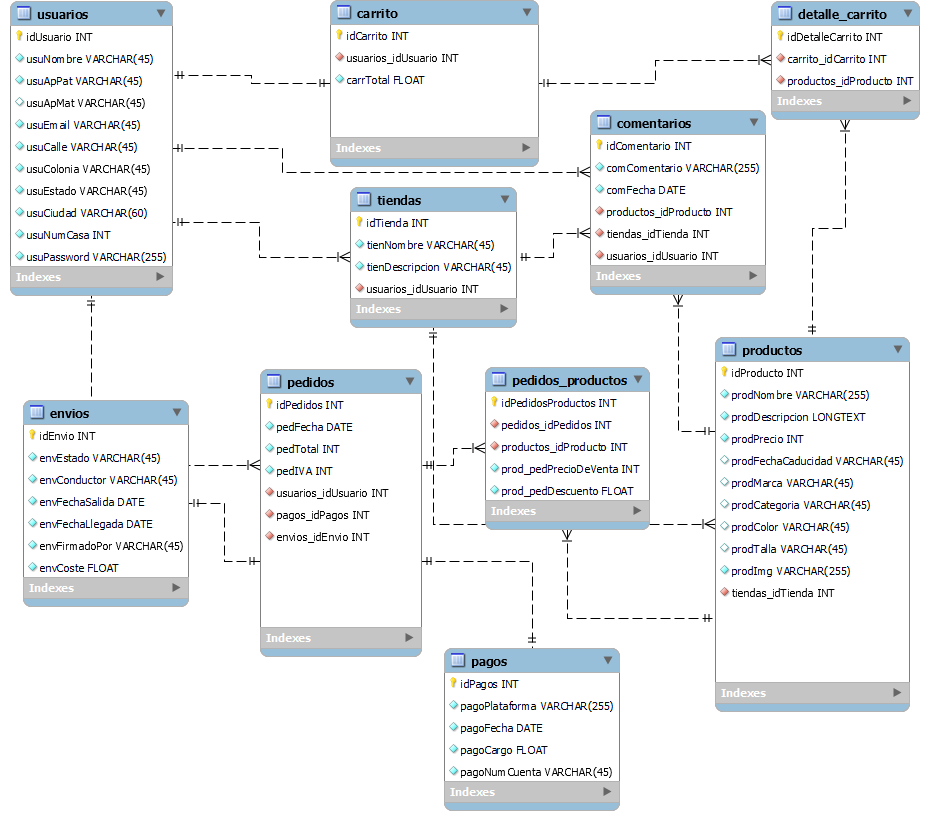
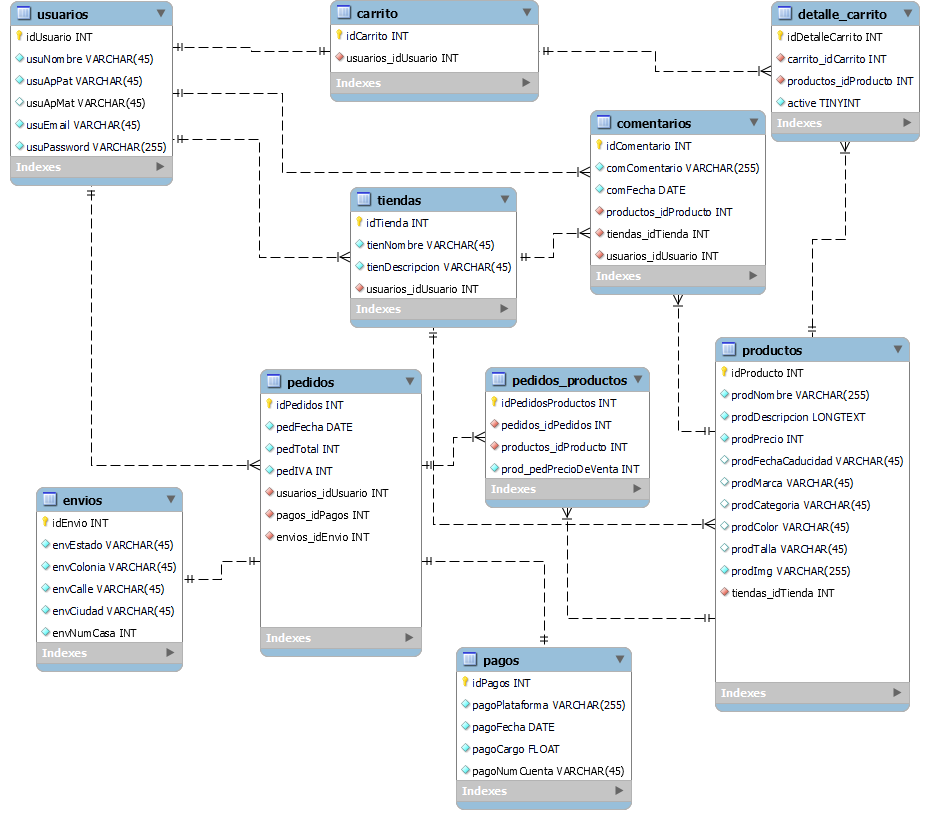
Creacion de logica de pedido y carrito
Se realizaron ajustes al modelo

diff --git a/Actividades/Actividad04/tienda/src/main/java/com/braulio/tienda/service/CarritoService.java b/Actividades/Actividad04/tienda/src/main/java/com/braulio/tienda/service/CarritoService.java
@@ -8,10 +8,10 @@ import org.springframework.stereotype.Service;
 
 import com.braulio.tienda.data.Carrito;
 import com.braulio.tienda.data.DetalleCarrito;
-import com.braulio.tienda.data.Producto;
 import com.braulio.tienda.data.Usuario;
 import com.braulio.tienda.data.dto.CarritoDto;
 import com.braulio.tienda.data.dto.DetalleCarritoDto;
+import com.braulio.tienda.data.dto.ProductoDto;
 import com.braulio.tienda.repository.CarritoRepository;
 import com.braulio.tienda.repository.DetalleCarritoRepository;
 import com.braulio.tienda.repository.ProductoRepository;
@@ -29,7 +29,7 @@ public class CarritoService {
     @Autowired
     private ProductoRepository productoRepository;
 
-    public DetalleCarritoDto obtenerCarrito(Integer idUsuario){
+    public List<ProductoDto> obtenerCarrito(Integer idUsuario){
 
         Usuario usuario = usuarioRepository.getReferenceById(idUsuario);
         Carrito carrito = (carritoRepository.findByUsuario(usuario)).get(0);
@@ -37,15 +37,25 @@ public class CarritoService {
         List<DetalleCarrito> productos = detalleCarritoRepository.findByCarritoAndActive(carrito,true);
         DetalleCarritoDto detalleCarritoDto = new DetalleCarritoDto();
         detalleCarritoDto.setCarrito(carrito);
-        List<Producto> listaProductos = new ArrayList<>();
+        List<ProductoDto> listaProductos = new ArrayList<>();
         for (DetalleCarrito objetoDetalleCarrito : productos) {
-            listaProductos.add(objetoDetalleCarrito.getProducto());
+            ProductoDto productoDto = new ProductoDto();
+            productoDto.setIdProducto(objetoDetalleCarrito.getProducto().getIdProducto());
+            productoDto.setCategoria(objetoDetalleCarrito.getProducto().getCategoria());
+            productoDto.setColor(objetoDetalleCarrito.getProducto().getColor());
+            productoDto.setDescripcion(objetoDetalleCarrito.getProducto().getDescripcion());
+            productoDto.setFechaCaducidad(objetoDetalleCarrito.getProducto().getFechaCaducidad());
+            productoDto.setImg(objetoDetalleCarrito.getProducto().getImg());
+            productoDto.setMarca(objetoDetalleCarrito.getProducto().getMarca());
+            productoDto.setNombre(objetoDetalleCarrito.getProducto().getNombre());
+            productoDto.setPrecio(objetoDetalleCarrito.getProducto().getPrecio());
+            productoDto.setTalla(objetoDetalleCarrito.getProducto().getTalla());
+            listaProductos.add(productoDto);
         }
-        detalleCarritoDto.setProductos(listaProductos);
-        return  detalleCarritoDto;
+        return listaProductos;
     }
 
-    public DetalleCarritoDto agregarProductoACarrito(CarritoDto carritoDto){
+    public List<ProductoDto> agregarProductoACarrito(CarritoDto carritoDto){
         Usuario usuario = usuarioRepository.getReferenceById(carritoDto.getUsuario());
         List<Carrito> userCarrito = carritoRepository.findByUsuario(usuario);
         if (userCarrito.size() > 0) {
@@ -55,22 +65,25 @@ public class CarritoService {
             newDetalleCarrito.setProducto(productoRepository.getReferenceById(carritoDto.getProducto()));    
             newDetalleCarrito.setActive(true);
             detalleCarritoRepository.save(newDetalleCarrito);
+            return obtenerCarrito(usuario.getIdUsuario());
         }else{
-
+            
             // Crear carrito
             Carrito newCarrito = new Carrito();
             newCarrito.setUsuario(usuario);
             carritoRepository.save(newCarrito);
-
-            // Crear DetallesCarrito
-            DetalleCarrito newDetalleCarrito = new DetalleCarrito();
-            newDetalleCarrito.setCarrito(newCarrito);
-            newDetalleCarrito.setProducto(productoRepository.getReferenceById(carritoDto.getProducto()));
-            detalleCarritoRepository.save(newDetalleCarrito);
-
             
-        };
-        return obtenerCarrito(usuario.getIdUsuario());
+            // Crear DetallesCarrito
+            DetalleCarrito detalleCarrito = new DetalleCarrito();
+            detalleCarrito.setCarrito(newCarrito);
+            detalleCarrito.setProducto(productoRepository.getReferenceById(carritoDto.getProducto()));
+            detalleCarrito.setActive(true);
+            detalleCarritoRepository.save(detalleCarrito);
+
+            return obtenerCarrito(usuario.getIdUsuario());
+            
+        }
+
     }
 
 }

diff --git a/Actividades/Actividad04/tienda/src/main/java/com/braulio/tienda/service/PedidoService.java b/Actividades/Actividad04/tienda/src/main/java/com/braulio/tienda/service/PedidoService.java
@@ -1,5 +1,6 @@
 package com.braulio.tienda.service;
 
+import java.util.ArrayList;
 import java.util.Date;
 import java.util.List;
 
@@ -42,7 +43,7 @@ public class PedidoService {
     @Autowired
     private PedidosProductosRepository pedidosProductosRepository;
 
-    public Pago crearPago(PagoDto pagoDto){
+    public Integer crearPago(PagoDto pagoDto){
         Pago pago = new Pago();
 
         pago.setCargo(pagoDto.getCargo());
@@ -51,10 +52,10 @@ public class PedidoService {
         pago.setPlataforma(pagoDto.getPlataforma());
         pagoRepository.save(pago);
         
-        return pago;
+        return pago.getIdPagos();
     }
 
-    public Envio crearEnvio(EnvioDto envioDto){
+    public Integer crearEnvio(EnvioDto envioDto){
         Envio envio = new Envio();
         envio.setCalle(envioDto.getCalle());
         envio.setCiudad(envioDto.getCiudad());
@@ -62,7 +63,7 @@ public class PedidoService {
         envio.setEstado(envioDto.getEstado());
         envio.setNumCasa(envioDto.getNumCasa());
         envioRepository.save(envio);
-        return envio;
+        return envio.getIdEnvio();
     }
 
 
@@ -77,13 +78,19 @@ public class PedidoService {
             Integer total = 0;
             Carrito carrito = carritoRepository.findByUsuario(usuario).get(0);
             List<DetalleCarrito> productos = detalleCarritoRepository.findByCarritoAndActive(carrito,true);
+
             for (DetalleCarrito itemCarrito : productos) {
                 total += itemCarrito.getProducto().getPrecio();
             }
+
             newPedido.setIva(total*IVA);
             newPedido.setTotal(total+newPedido.getIva());
-            newPedido.setPago(crearPago(new PagoDto(pedidoDto.getPlataforma(), newPedido.getFecha(),newPedido.getTotal(), pedidoDto.getNumCuenta())));
-            newPedido.setEnvio(crearEnvio(new EnvioDto(pedidoDto.getCalle(), pedidoDto.getColonia(), pedidoDto.getEstado(), pedidoDto.getCiudad(), pedidoDto.getNumCasa())));
+            Integer idPago = crearPago(new PagoDto(pedidoDto.getPlataforma(), newPedido.getFecha(),newPedido.getTotal(), pedidoDto.getNumCuenta()));
+            Pago pago = pagoRepository.getReferenceById(idPago);
+            newPedido.setPago(pago);
+            Integer idEnvio = crearEnvio(new EnvioDto(pedidoDto.getCalle(), pedidoDto.getColonia(), pedidoDto.getEstado(), pedidoDto.getCiudad(), pedidoDto.getNumCasa()));
+            Envio envio = envioRepository.getReferenceById(idEnvio);
+            newPedido.setEnvio(envio);
             pedidoRepository.save(newPedido);
             
             for (DetalleCarrito itemCarrito : productos) {
@@ -95,9 +102,37 @@ public class PedidoService {
                 
             }
 
+            
+            pedidoDto.setTotal(newPedido.getTotal());
+            pedidoDto.setIva(newPedido.getIva());
+            pedidoDto.setFecha(newPedido.getFecha());
+            pedidoDto.setIdPedidos(newPedido.getIdPedidos());
         }
-    
-
         return pedidoDto;
+    }
+
+
+
+    public List<PedidoDto> obtenerPedidosPorUsuario(Integer idUsuario){
+        Usuario usuario = usuarioRepository.getReferenceById(idUsuario);
+        List<Pedido> pedidos = pedidoRepository.findByUsuario(usuario);
+        List<PedidoDto> pedidoDtos = new ArrayList<>();
+        for (Pedido pedido : pedidos) {
+            PedidoDto pedidoDto = new PedidoDto();
+            pedidoDto.setUsuario(pedido.getUsuario().getIdUsuario());
+            pedidoDto.setIdPedidos(pedido.getIdPedidos());
+            pedidoDto.setNumCuenta(pedido.getPago().getNumCuenta());
+            pedidoDto.setPlataforma(pedido.getPago().getPlataforma());
+            pedidoDto.setCalle(pedido.getEnvio().getCalle());
+            pedidoDto.setCiudad(pedido.getEnvio().getCiudad());
+            pedidoDto.setColonia(pedido.getEnvio().getColonia());
+            pedidoDto.setEstado(pedido.getEnvio().getEstado());
+            pedidoDto.setNumCasa(pedido.getEnvio().getNumCasa());
+            pedidoDto.setFecha(pedido.getFecha());
+            pedidoDto.setIva(pedido.getIva());
+            pedidoDto.setTotal(pedido.getTotal());
+            pedidoDtos.add(pedidoDto);
+        }
+        return pedidoDtos;
     }
 }

diff --git a/Actividades/Actividad04/tienda/src/main/java/com/braulio/tienda/controller/CarritoController.java b/Actividades/Actividad04/tienda/src/main/java/com/braulio/tienda/controller/CarritoController.java
@@ -1,27 +1,31 @@
 package com.braulio.tienda.controller;
 
+import java.util.List;
+
 import org.springframework.beans.factory.annotation.Autowired;
 import org.springframework.web.bind.annotation.GetMapping;
 import org.springframework.web.bind.annotation.PostMapping;
 import org.springframework.web.bind.annotation.RequestBody;
+import org.springframework.web.bind.annotation.RequestMapping;
 import org.springframework.web.bind.annotation.RestController;
 
 import com.braulio.tienda.data.dto.CarritoDto;
-import com.braulio.tienda.data.dto.DetalleCarritoDto;
+import com.braulio.tienda.data.dto.ProductoDto;
 import com.braulio.tienda.service.CarritoService;
 
 @RestController
+@RequestMapping("/carrito")
 public class CarritoController {
     @Autowired
     private CarritoService carritoService;
 
     @PostMapping("/addCarrito")
-    public DetalleCarritoDto addToCart(@RequestBody CarritoDto carritoDto){
+    public List<ProductoDto> addToCart(@RequestBody CarritoDto carritoDto){
         return carritoService.agregarProductoACarrito(carritoDto);
     }
 
     @GetMapping("/getCarrito")
-    public DetalleCarritoDto getCart(Integer idUsuario){
+    public List<ProductoDto> getCart(Integer idUsuario){
         return carritoService.obtenerCarrito(idUsuario);
     }
 }

diff --git a/Actividades/Actividad04/tienda/src/main/java/com/braulio/tienda/data/PedidosProductos.java b/Actividades/Actividad04/tienda/src/main/java/com/braulio/tienda/data/PedidosProductos.java
@@ -8,7 +8,6 @@ import jakarta.persistence.GenerationType;
 import jakarta.persistence.Id;
 import jakarta.persistence.JoinColumn;
 import jakarta.persistence.ManyToOne;
-import jakarta.persistence.MapsId;
 import jakarta.persistence.Table;
 import lombok.Getter;
 import lombok.Setter;
@@ -24,16 +23,14 @@ public class PedidosProductos {
     @Column(name = "idPedidosProductos")
     private Integer idPedidosProductos;
 
-    @MapsId("idPedidos")
     @ManyToOne(fetch = FetchType.LAZY, optional = false)
     @JoinColumn(name = "pedidos_idPedidos", nullable = false)
     private Pedido pedido;
 
-    @MapsId("idProducto")
     @ManyToOne(fetch = FetchType.LAZY, optional = false)
     @JoinColumn(name = "productos_idProducto", nullable = false)
     private Producto producto;
 
     @Column(name = "prod_pedPrecioDeVenta",nullable = false)
-    private Integer precioVenta;
+    private double precioVenta;
 }

diff --git a/Actividades/Actividad04/tienda/src/main/java/com/braulio/tienda/data/DetalleCarrito.java b/Actividades/Actividad04/tienda/src/main/java/com/braulio/tienda/data/DetalleCarrito.java
@@ -8,7 +8,6 @@ import jakarta.persistence.GenerationType;
 import jakarta.persistence.Id;
 import jakarta.persistence.JoinColumn;
 import jakarta.persistence.ManyToOne;
-import jakarta.persistence.MapsId;
 import jakarta.persistence.Table;
 import lombok.Getter;
 import lombok.Setter;
@@ -24,12 +23,12 @@ public class DetalleCarrito {
     @Column(name = "idDetalleCarrito")
     private Integer idDetalleCarrito;
 
-    @MapsId("idCarrito")
+    // @MapsId("idCarrito")
     @ManyToOne(fetch = FetchType.LAZY, optional = false)
     @JoinColumn(name = "carrito_idCarrito", nullable = false)
     private Carrito carrito;
     
-    @MapsId("idProducto")
+    // @MapsId("idProducto")
     @ManyToOne(fetch = FetchType.LAZY, optional = false)
     @JoinColumn(name = "productos_idProducto", nullable = false)
     private Producto producto;

diff --git a/Actividades/Actividad04/tienda/src/main/java/com/braulio/tienda/controller/PedidoController.java b/Actividades/Actividad04/tienda/src/main/java/com/braulio/tienda/controller/PedidoController.java
@@ -1,6 +1,9 @@
 package com.braulio.tienda.controller;
 
+import java.util.List;
+
 import org.springframework.beans.factory.annotation.Autowired;
+import org.springframework.web.bind.annotation.GetMapping;
 import org.springframework.web.bind.annotation.PostMapping;
 import org.springframework.web.bind.annotation.RequestBody;
 import org.springframework.web.bind.annotation.RequestMapping;
@@ -19,5 +22,10 @@ public class PedidoController {
     @PostMapping("/nuevoPedido")
     public PedidoDto nuevoPedido(@RequestBody PedidoDto dto){
         return pedidoService.nuevoPedido(dto);
+    }
+
+    @GetMapping("/getPedidos")
+    public List<PedidoDto> getPedidos(Integer idUsuario){
+        return pedidoService.obtenerPedidosPorUsuario(idUsuario);
     }
 }

diff --git a/Actividades/Actividad04/tienda/src/main/java/com/braulio/tienda/data/dto/DetalleCarritoDto.java b/Actividades/Actividad04/tienda/src/main/java/com/braulio/tienda/data/dto/DetalleCarritoDto.java
@@ -1,16 +1,23 @@
 package com.braulio.tienda.data.dto;
 
+import java.io.Serializable;
 import java.util.List;
 
 import com.braulio.tienda.data.Carrito;
 import com.braulio.tienda.data.Producto;
+import com.fasterxml.jackson.annotation.JsonIgnore;
 
 import lombok.Getter;
 import lombok.Setter;
 
 @Getter
 @Setter
-public class DetalleCarritoDto {
+public class DetalleCarritoDto implements Serializable{
     private Carrito carrito;
+    @JsonIgnore 
     private List<Producto> productos;
+    
+    public DetalleCarritoDto(){
+
+    }
 }

diff --git a/Actividades/Actividad04/tienda/src/main/java/com/braulio/tienda/data/dto/PedidoDto.java b/Actividades/Actividad04/tienda/src/main/java/com/braulio/tienda/data/dto/PedidoDto.java
@@ -15,11 +15,11 @@ public class PedidoDto implements Serializable{
     private double total;
     private double iva;
     private int usuario;
-    private int pago;
-    private int envio;
+    // private int pago;
+    // private int envio;
     private String plataforma;
     private String numCuenta;
-    private Integer idEnvio;
+    // private Integer idEnvio;
     private String calle;
     private String colonia;
     private String estado;

diff --git a/Actividades/Actividad04/tienda/src/main/java/com/braulio/tienda/repository/PedidoRepository.java b/Actividades/Actividad04/tienda/src/main/java/com/braulio/tienda/repository/PedidoRepository.java
@@ -3,7 +3,11 @@ package com.braulio.tienda.repository;
 import org.springframework.data.jpa.repository.JpaRepository;
 
 import com.braulio.tienda.data.Pedido;
+import com.braulio.tienda.data.Usuario;
+
+import java.util.List;
+
 
 public interface PedidoRepository extends JpaRepository<Pedido,Integer>{
-    
+    List<Pedido> findByUsuario(Usuario usuario);
 }

diff --git a/Actividades/Actividad04/tienda/src/main/java/com/braulio/tienda/data/Pago.java b/Actividades/Actividad04/tienda/src/main/java/com/braulio/tienda/data/Pago.java
@@ -20,8 +20,8 @@ public class Pago {
     
     @Id
     @GeneratedValue(strategy = GenerationType.IDENTITY)
-    @Column(name = "idPago")
-    private Integer idPago;
+    @Column(name = "idPagos")
+    private Integer idPagos;
 
     @Column(name = "pagoPlataforma", nullable = false, length = 255)
     private String plataforma;

diff --git a/Actividades/Actividad04/tienda/src/main/java/com/braulio/tienda/data/dto/PagoDto.java b/Actividades/Actividad04/tienda/src/main/java/com/braulio/tienda/data/dto/PagoDto.java
@@ -9,7 +9,7 @@ import lombok.Setter;
 @Getter
 @Setter
 public class PagoDto implements Serializable{
-    private Integer idPago;
+    private Integer idPagos;
     private String plataforma;
     private Date fecha;
     private double cargo;

diff --git a/Actividades/Actividad04/tienda/src/main/java/com/braulio/tienda/data/Usuario.java b/Actividades/Actividad04/tienda/src/main/java/com/braulio/tienda/data/Usuario.java
@@ -1,5 +1,6 @@
 package com.braulio.tienda.data;
 
+
 import jakarta.persistence.Column;
 import jakarta.persistence.Entity;
 import jakarta.persistence.GeneratedValue;
